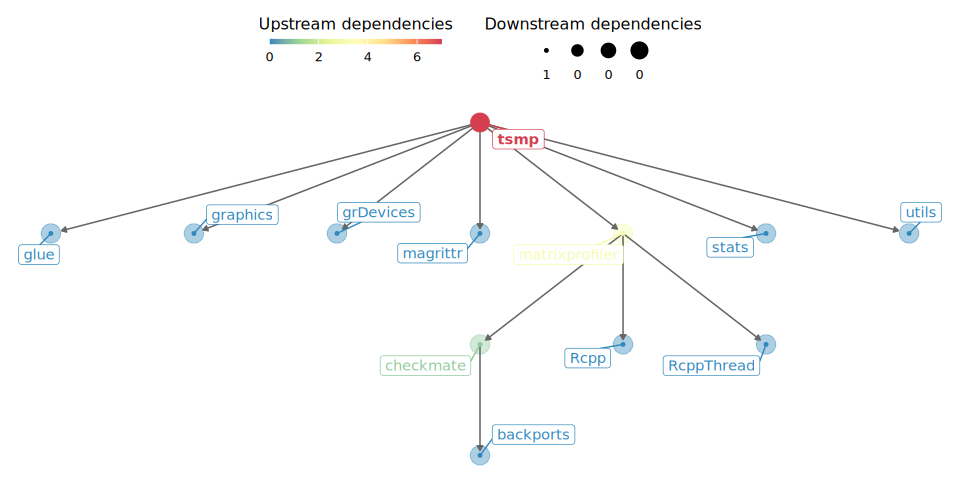
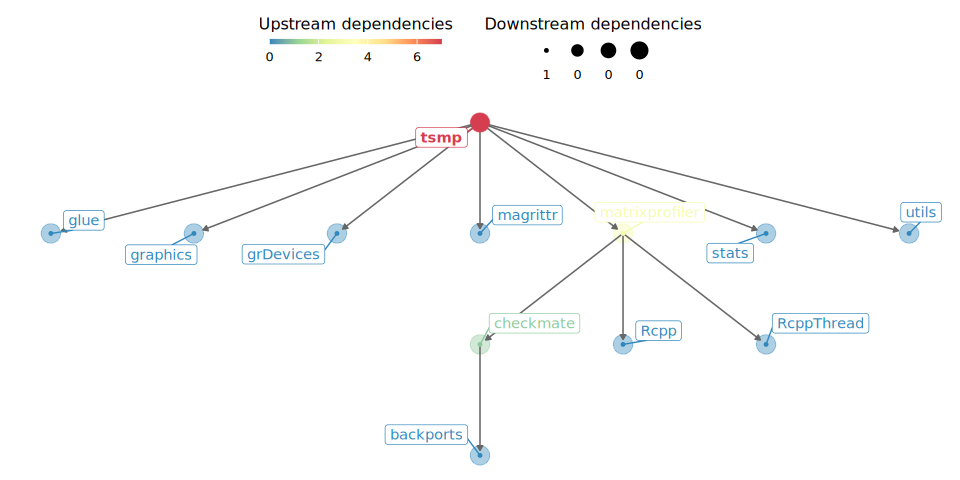
docs: update migration link and generation date in README files

diff --git a/README.md b/README.md
@@ -2,7 +2,7 @@ README
 ================
 Francisco Bischoff
 
-15 Oct 2026
+16 Oct 2026
 
 <!-- README.md is generated from README.Rmd. Please edit that file -->
 
@@ -48,7 +48,7 @@ Key highlights:
   edge-case fix.
 
 📄 Full API changes, breaking changes, and migration guide:
-**[MIGRATION.md](MIGRATION.md)**
+**[MIGRATION.md](https://github.com/matrix-profile-foundation/tsmp/blob/master/MIGRATION.md)**
 
 > *A broader introduction to the matrixprofiler backend is available
 > [here](https://franzbischoff.rbind.io/posts/presenting-matrixprofiler-a-fast-matrix-profile-implementation-in-r/).*
